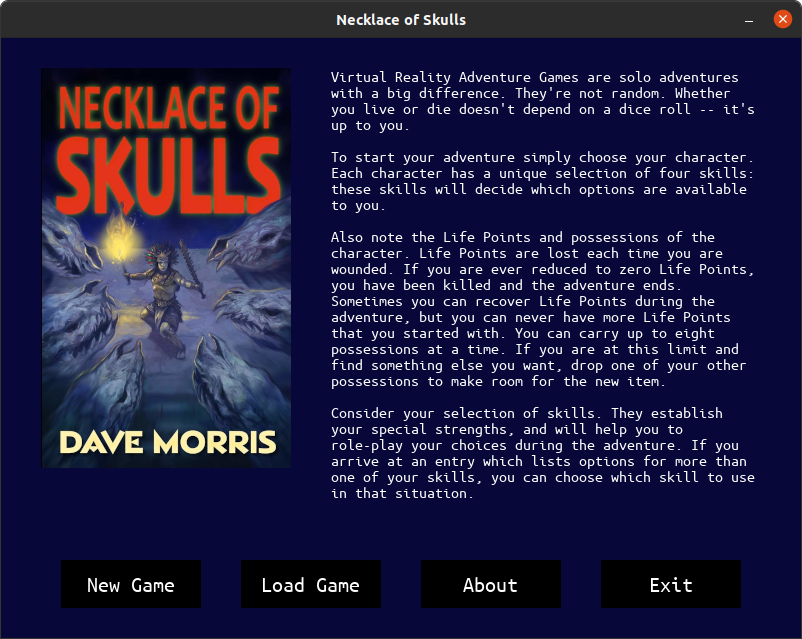
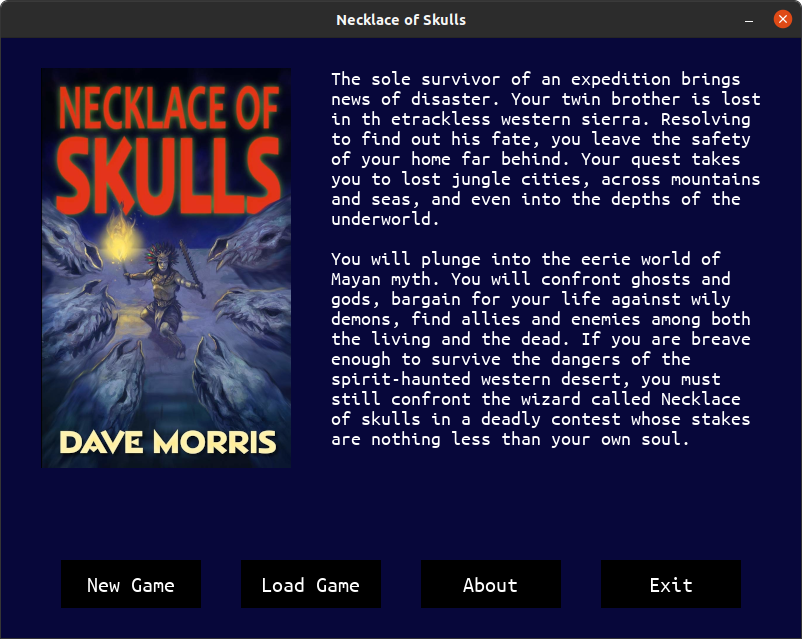
use back-cover text of book as introduction in title screen

Changed region(s): [[0.4052, 0.1189, 0.9663, 0.7731]]

diff --git a/src/skulls.cpp b/src/skulls.cpp
@@ -377,9 +377,11 @@ SDL_Surface *createSurface(int width, int height)
 void displaySplashScreen(SDL_Window *window)
 {
     auto *instructions = "Virtual Reality Adventure Games are solo adventures with a big difference. They're not random. Whether you live or die doesn't depend on a dice roll -- it's up to you.\n\nTo start your adventure simply choose your character. Each character has a unique selection of four skills: these skills will decide which options are available to you.\n\nAlso note the Life Points and possessions of the character. Life Points are lost each time you are wounded. If you are ever reduced to zero Life Points, you have been killed and the adventure ends. Sometimes you can recover Life Points during the adventure, but you can never have more Life Points that you started with. You can carry up to eight possessions at a time. If you are at this limit and find something else you want, drop one of your other possessions to make room for the new item.\n\nConsider your selection of skills. They establish your special strengths, and will help you to role-play your choices during the adventure. If you arrive at an entry which lists options for more than one of your skills, you can choose which skill to use in that situation.";
+    
+    auto *introduction = "The sole survivor of an expedition brings news of disaster. Your twin brother is lost in the trackless western sierra. Resolving to find out his fate, you leave the safety of your home far behind. Your quest takes you to lost jungle cities, across mountains and seas, and even into the depths of the underworld.\n\nYou will plunge into the eerie world of Mayan myth. You will confront ghosts and gods, bargain for your life against wily demons, find allies and enemies among both the living and the dead. If you are breave enough to survive the dangers of the spirit-haunted western desert, you must still confront the wizard called Necklace of skulls in a deadly contest whose stakes are nothing less than your own soul.";
 
     auto splash = createImage("images/skulls-cover.png");
-    auto text = createText(instructions, "fonts/default.ttf", 16, clrWH, SCREEN_WIDTH * 0.85 - splash->w);
+    auto text = createText(introduction, "fonts/default.ttf", 20, clrWH, SCREEN_WIDTH * 0.85 - splash->w);
 
     // Dark Blue in ARGB format
     Uint32 bg = 0xFF07073A;
